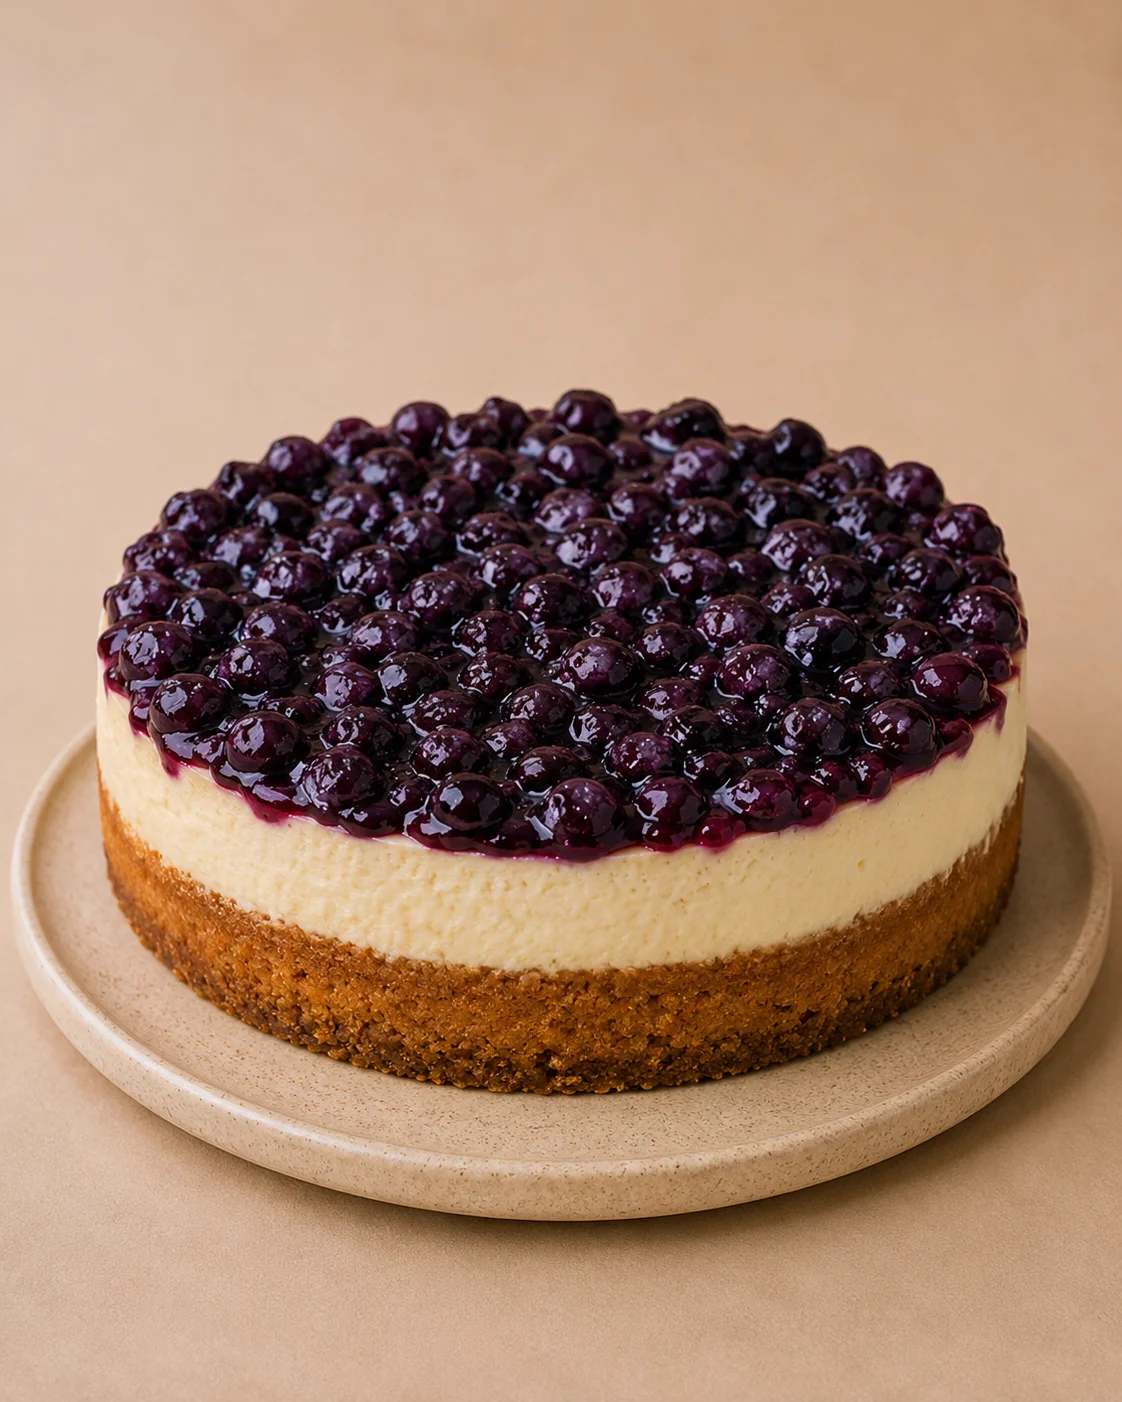
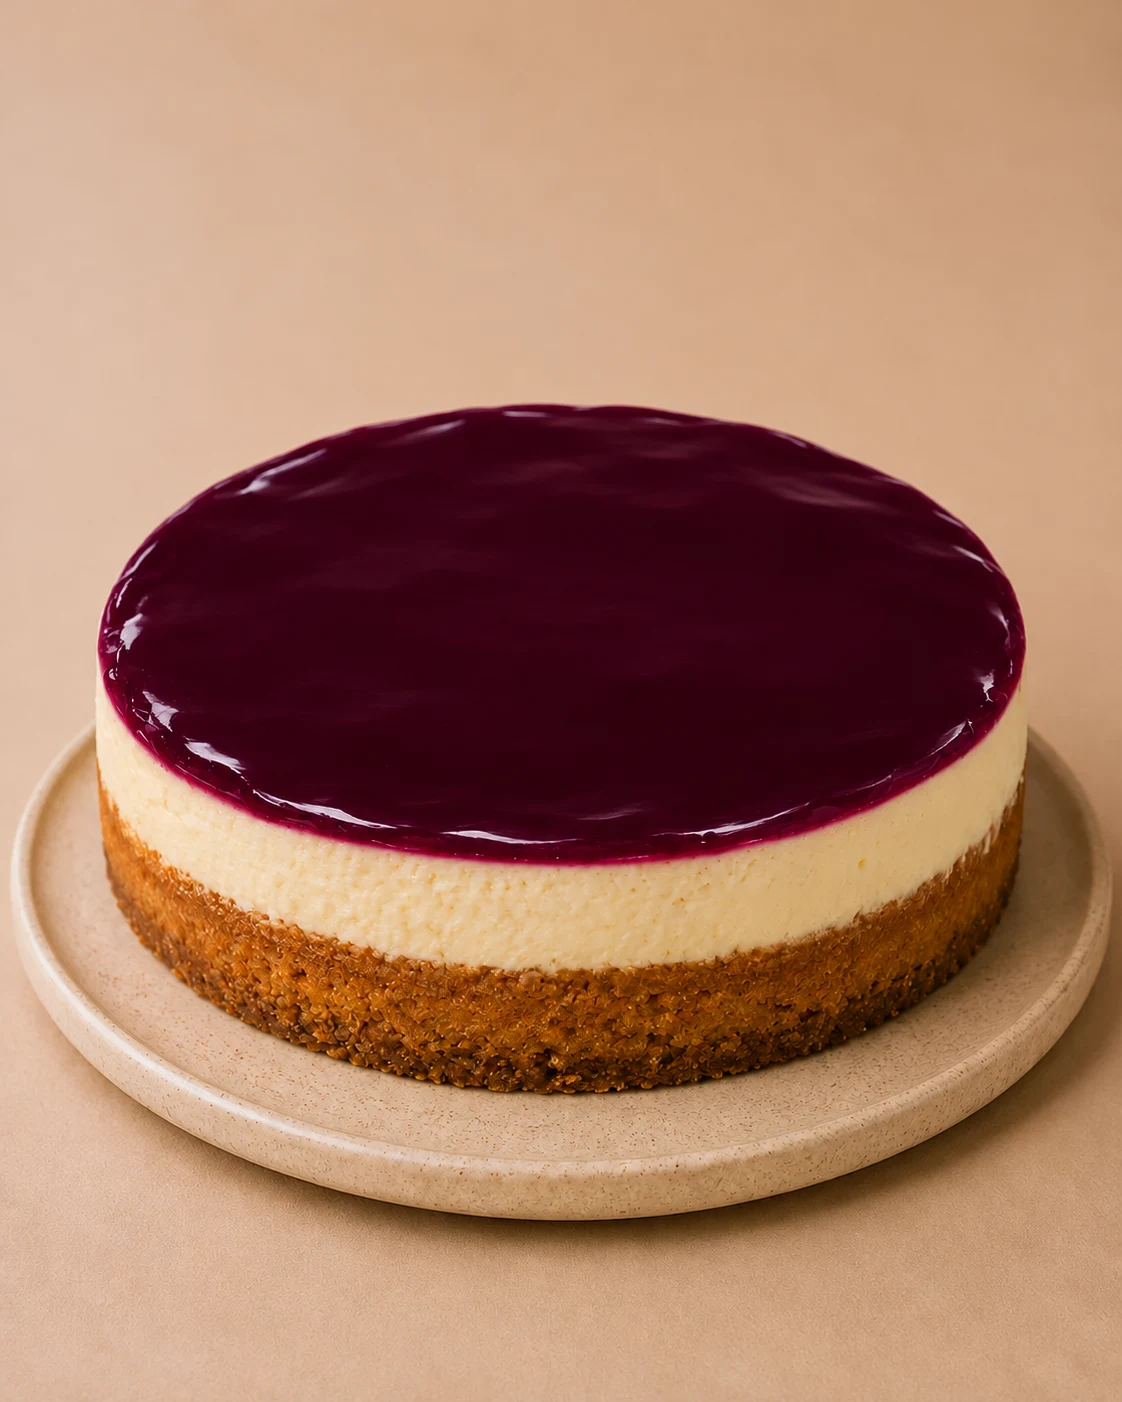
fix: replace berry toppings with smooth filling in cake photos

diff --git a/lib/cakeData.ts b/lib/cakeData.ts
@@ -1,4 +1,5 @@
 import "server-only";
+import { cakePhotoUrl } from "./cakePhotoUrl";
 import { unstable_cache, updateTag } from "next/cache";
 import type { CakeCategory, Prisma } from "@prisma/client";
 import type { CakeProductView } from "./cakes";
@@ -113,9 +114,9 @@ function toView(r: Row, admin = false): CakeProductView {
       pricePaise: v.pricePaise,
       isAvailable: v.isAvailable,
     })),
-    imageUrl: r.primaryImageUrl,
+    imageUrl: r.primaryImageUrl ? cakePhotoUrl(r.primaryImageUrl) : null,
     imageAlt: r.primaryImageAlt,
-    gallery: r.images.map((i) => ({ id: i.id, url: i.url, alt: i.alt })),
+    gallery: r.images.map((i) => ({ id: i.id, url: cakePhotoUrl(i.url), alt: i.alt })),
     config: migrateConfig(r.config),
     productionSpec: parseProductionSpec(r.productionSpec),
     ...(admin ? { productionIssues: (() => {
@@ -155,7 +156,7 @@ const loadAvailable = unstable_cache(
     });
     return rows.map(row => toView(row));
   },
-  ["cakes-available"],
+  ["cakes-available", "filling-photos-1"],
   { tags: [CAKES_TAG] },
 );
 

diff --git a/tests/cakePhotoUrl.test.ts b/tests/cakePhotoUrl.test.ts
@@ -1,0 +1,20 @@
+import { describe, expect, it } from "vitest";
+import { existsSync } from "node:fs";
+import { cakePhotoUrl } from "../lib/cakePhotoUrl";
+
+describe("updated fruit filling photos", () => {
+  it("refreshes all four local images and keeps repeated resolution stable", () => {
+    for (const slug of ["strawberry-cream", "american-blueberry", "strawberry-cheesecake", "blueberry-cheesecake"]) {
+      const path = `/presets/${slug}.webp`;
+      const url = cakePhotoUrl(path);
+      expect(existsSync(`public${path}`)).toBe(true);
+      expect(url).not.toBe(path);
+      expect(cakePhotoUrl(url)).toBe(url);
+    }
+  });
+  it("preserves other cakes and uploaded images", () => {
+    for (const url of ["/presets/chocolate-truffle.webp", "https://example.com/strawberry-cream.webp"]) {
+      expect(cakePhotoUrl(url)).toBe(url);
+    }
+  });
+});

diff --git a/components/PresetCard.tsx b/components/PresetCard.tsx
@@ -1,4 +1,5 @@
 import Image from "next/image";
+import { cakePhotoUrl } from "@/lib/cakePhotoUrl";
 import { LoadConfig } from "@/components/builder/LoadConfig";
 import type { CatalogSnapshot } from "@/lib/catalogSnapshot";
 import { formatINR } from "@/lib/format";
@@ -86,7 +87,7 @@ export function PresetCard({
       */}
       <div className="cake-stage relative aspect-square overflow-hidden border-b border-rule">
         <Image
-          src={`/presets/${preset.slug}.webp`}
+          src={cakePhotoUrl(`/presets/${preset.slug}.webp`)}
           alt={preset.name}
           fill
           sizes="(min-width:1280px) 23vw, (min-width:1024px) 31vw, (min-width:640px) 47vw, 92vw"

diff --git a/lib/shop.ts b/lib/shop.ts
@@ -1,4 +1,5 @@
 import { CAKE_CATEGORIES, type CakeCategoryInfo } from "./cakes";
+import { cakePhotoUrl } from "./cakePhotoUrl";
 import { entryFor, type CatalogSnapshot } from "./catalogSnapshot";
 import { cakeTitle } from "./docket";
 import { PRESETS, type Preset } from "./presets";
@@ -103,7 +104,7 @@ export interface LegacyProduct extends Preset {
 /** The twenty-one, with their committed photographs. Not a catalogue. */
 export const LEGACY_PRODUCTS: LegacyProduct[] = PRESETS.map((p) => ({
   ...p,
-  image: `/presets/${p.slug}.webp`,
+  image: cakePhotoUrl(`/presets/${p.slug}.webp`),
 }));
 
 /**

diff --git a/app/film/FilmHome.tsx b/app/film/FilmHome.tsx
@@ -1,4 +1,5 @@
 import { readFileSync } from "node:fs";
+import { cakePhotoUrl } from "@/lib/cakePhotoUrl";
 import { join } from "node:path";
 
 import Link from "next/link";
@@ -258,7 +259,7 @@ export function FilmHome() {
               </dl>
               {/* eslint-disable-next-line @next/next/no-img-element */}
               <img
-                src={`/presets/${p.slug}.webp`}
+                src={cakePhotoUrl(`/presets/${p.slug}.webp`)}
                 alt={p.name}
                 loading="lazy"
                 className="mt-[12px] block h-[180px] w-full object-cover"

diff --git a/lib/cakePhotoUrl.ts b/lib/cakePhotoUrl.ts
@@ -1,0 +1,11 @@
+const FILLING_PHOTOS = new Set([
+  "/presets/strawberry-cream.webp",
+  "/presets/american-blueberry.webp",
+  "/presets/strawberry-cheesecake.webp",
+  "/presets/blueberry-cheesecake.webp",
+]);
+
+/** Refresh cached preset photos without changing uploaded catalogue images. */
+export function cakePhotoUrl(src: string): string {
+  return FILLING_PHOTOS.has(src) ? `${src}?v=filling-1` : src;
+}

diff --git a/docs/fruit-filling-photos-2026-11-09.md b/docs/fruit-filling-photos-2026-11-09.md
@@ -1,0 +1,28 @@
+# Fruit filling photos — 9 November 2026
+
+Edited with built-in Imagegen and visually reviewed. Whole fruit was replaced with smooth filling; exported as 1122 × 1402 WebP. Existing asset paths are retained, with a version query in catalogue and preset views to refresh cached images. Uploaded product photos are unchanged.
+
+## strawberry-cream
+
+Saved: `public/presets/strawberry-cream.webp`
+
+Prompt: Use case: precise-object-edit. Edit target: this exact cake product photograph. Replace ALL visible whole or sliced strawberry fruit pieces with smooth glossy strawberry filling, with no recognizable fruit chunks, fruit skins, leaves or whole berries. Keep the white cream rosettes and add small elegant dollops of smooth red strawberry filling where the strawberry halves were, preserving the white center. Preserve cake shape, size, camera angle, framing, plate, background, lighting and all other details. Professional realistic bakery product photo. No text or additional decorations.
+
+## american-blueberry
+
+Saved: `public/presets/american-blueberry.webp`
+
+Prompt: Use case: precise-object-edit. Edit target: this exact cake product photograph. Replace ALL visible whole or sliced blueberry fruit pieces with smooth glossy blueberry filling, with no recognizable fruit chunks, fruit skins, leaves or whole berries. Keep the cream rosettes and purple drips, replace the mound of berries with a smooth deep purple blueberry filling layer, and replace berries on rosettes with small filling dollops. Preserve cake shape, size, camera angle, framing, plate, background, lighting and all other details. Professional realistic bakery product photo. No text or additional decorations.
+
+## strawberry-cheesecake
+
+Saved: `public/presets/strawberry-cheesecake.webp`
+
+Prompt: Use case: precise-object-edit. Edit target: this exact cake product photograph. Replace ALL visible whole or sliced strawberry fruit pieces with smooth glossy strawberry filling, with no recognizable fruit chunks, fruit skins, leaves or whole berries. Replace the fruit-covered top with an even smooth glossy fruit filling layer, keeping the cheesecake body and biscuit base unchanged. Preserve cake shape, size, camera angle, framing, plate, background, lighting and all other details. Professional realistic bakery product photo. No text or additional decorations.
+
+## blueberry-cheesecake
+
+Saved: `public/presets/blueberry-cheesecake.webp`
+
+Prompt: Use case: precise-object-edit. Edit target: this exact cake product photograph. Replace ALL visible whole or sliced blueberry fruit pieces with smooth glossy blueberry filling, with no recognizable fruit chunks, fruit skins, leaves or whole berries. Replace the fruit-covered top with an even smooth glossy fruit filling layer, keeping the cheesecake body and biscuit base unchanged. Preserve cake shape, size, camera angle, framing, plate, background, lighting and all other details. Professional realistic bakery product photo. No text or additional decorations.
+
